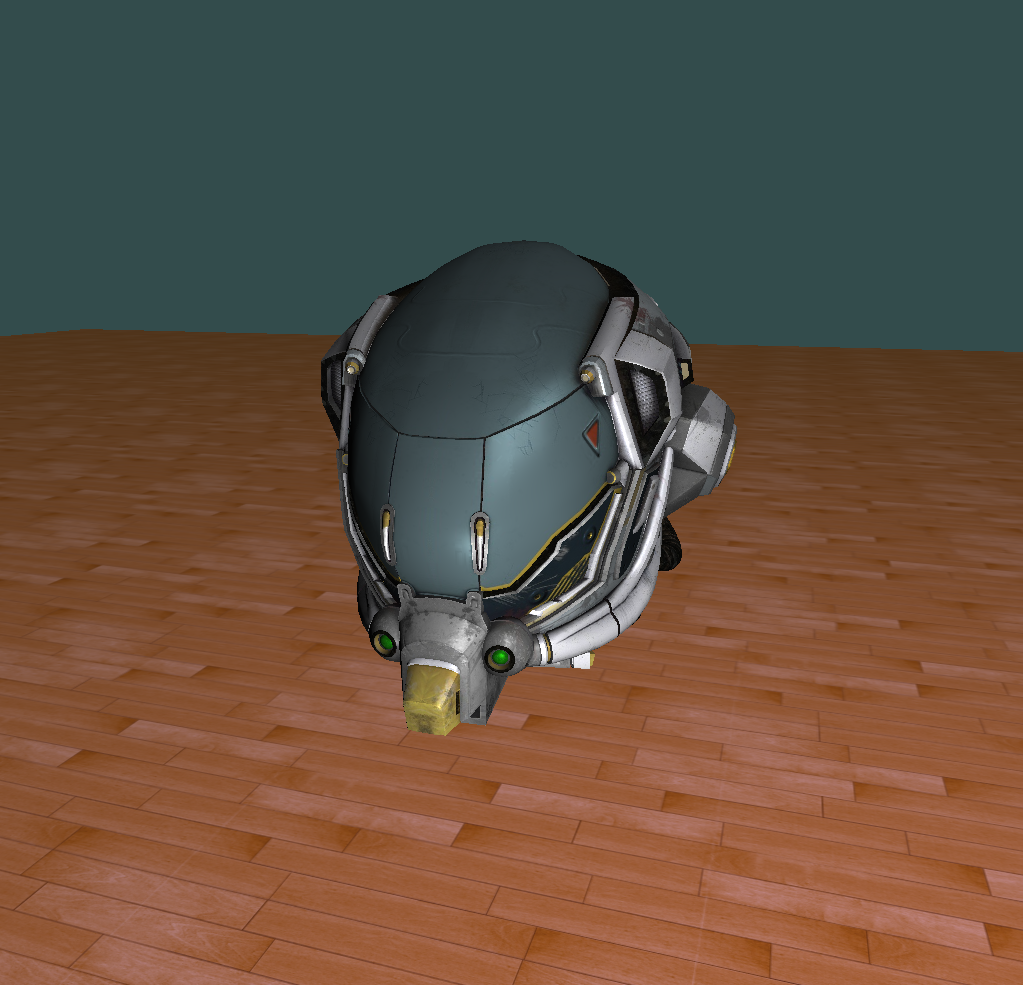
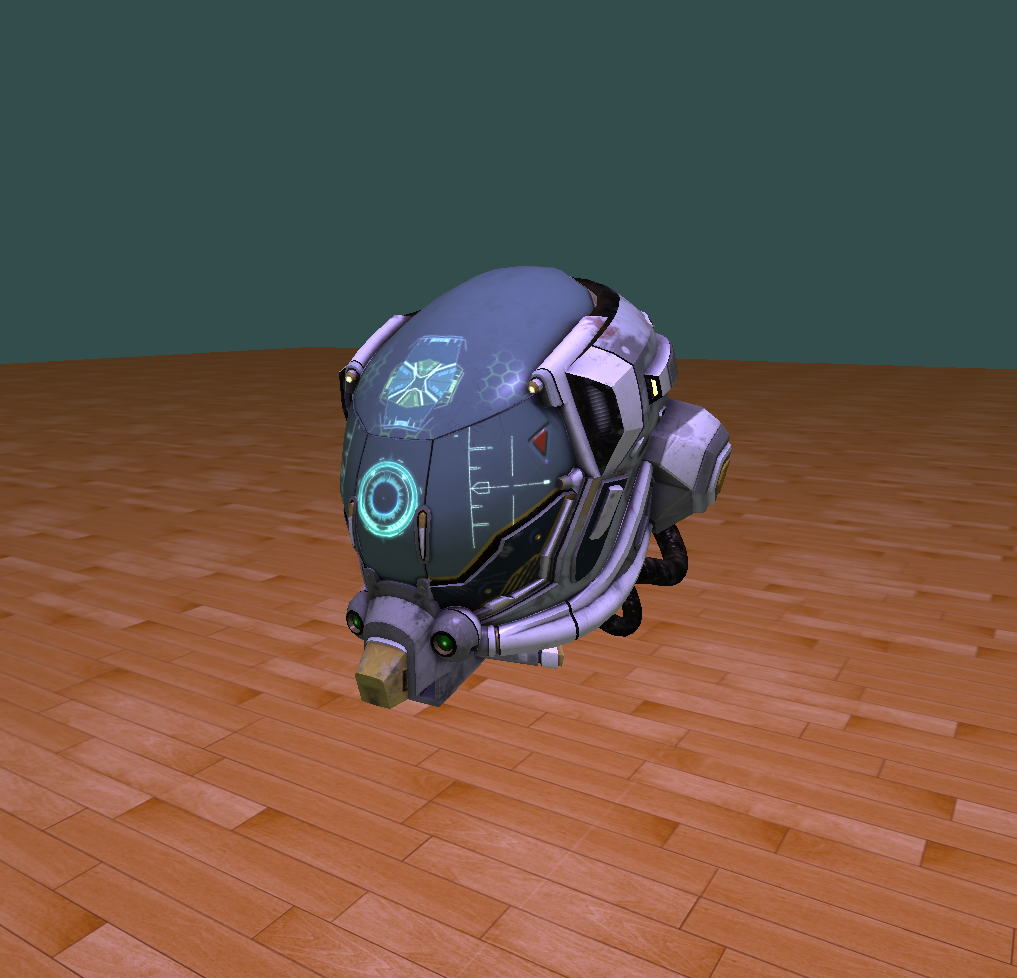
完善 BlinnPhong 光照着色处理

diff --git a/source/Render/Material.hpp b/source/Render/Material.hpp
@@ -42,6 +42,7 @@ enum class MaterialTexType
   EMISSIVE,
   AMBIENT_OCCLUSION,
   METAL_ROUGHNESS,
+  SPECULAR,
 
   CUBE,
   EQUIRECTANGULAR,
@@ -121,6 +122,7 @@ public:
             CASE_ENUM_STR(MaterialTexType::EMISSIVE);
             CASE_ENUM_STR(MaterialTexType::AMBIENT_OCCLUSION);
             CASE_ENUM_STR(MaterialTexType::METAL_ROUGHNESS);
+            CASE_ENUM_STR(MaterialTexType::SPECULAR);
             CASE_ENUM_STR(MaterialTexType::CUBE);
             CASE_ENUM_STR(MaterialTexType::EQUIRECTANGULAR);
             CASE_ENUM_STR(MaterialTexType::IBL_IRRADIANCE);
@@ -142,6 +144,7 @@ public:
             case MaterialTexType::EMISSIVE:           return "EMISSIVE_MAP";
             case MaterialTexType::AMBIENT_OCCLUSION:  return "AO_MAP";
             case MaterialTexType::METAL_ROUGHNESS:    return "METALROUGHNESS_MAP";
+            case MaterialTexType::SPECULAR:           return "SPECULAR_MAP";
             case MaterialTexType::CUBE:               return "CUBE_MAP";
             case MaterialTexType::EQUIRECTANGULAR:    return "EQUIRECTANGULAR_MAP";
             case MaterialTexType::IBL_IRRADIANCE:
@@ -162,6 +165,7 @@ public:
             case MaterialTexType::EMISSIVE:           return "u_emissiveMap";
             case MaterialTexType::AMBIENT_OCCLUSION:  return "u_aoMap";
             case MaterialTexType::METAL_ROUGHNESS:    return "u_metalRoughnessMap";
+            case MaterialTexType::SPECULAR:           return "u_specularMap";
             case MaterialTexType::CUBE:               return "u_cubeMap";
             case MaterialTexType::EQUIRECTANGULAR:    return "u_equirectangularMap";
             case MaterialTexType::IBL_IRRADIANCE:     return "u_irradianceMap";

diff --git a/source/Render/Renderer.hpp b/source/Render/Renderer.hpp
@@ -378,7 +378,7 @@ private:
 
         uniformScene.u_ambientColor = glm::vec3(0.4f, 0.4f, 0.4f);
         uniformScene.u_cameraPosition = m_cameraCurrent->position();
-        uniformScene.u_pointLightPosition = glm::vec3(2.0f, 3.0f, 2.0f);
+        uniformScene.u_pointLightPosition = glm::vec3(1.0f, 3.0f, 1.0f);
         uniformScene.u_pointLightColor = glm::vec3(0.6f, 0.5f, 0.9f);
 
         m_uniformBlockScene->setData(&uniformScene, sizeof(uniformScene));
@@ -510,7 +510,6 @@ private:
     // shadow map
     std::shared_ptr<Framebuffer> m_fboShadow;
     std::shared_ptr<Texture> m_texDepthShadow;
-    std::shared_ptr<Texture> m_;
 };
 
 END_NAMESPACE(GLBase)

diff --git a/source/main.cpp b/source/main.cpp
@@ -137,7 +137,7 @@ int main()
     GLBase::ModelLoader modelLoader;
     modelLoader.loadFloor(modelLoader.getScene().floor);
     modelLoader.loadCube(modelLoader.getScene().cube, glm::translate(glm::mat4(1.0f), glm::vec3(0.0f, 1.0f, 0.0f)));
-    modelLoader.loadModel("../assets/DamagedHelmet/DamagedHelmet.gltf", glm::translate(glm::mat4(1.0f), glm::vec3(0.0f, 3.1f, 0.0f)));
+    modelLoader.loadModel("../assets/DamagedHelmet/DamagedHelmet.gltf", glm::translate(glm::mat4(1.0f), glm::vec3(0.0f, 3.0f, 0.0f)));
 
     GLBase::Renderer renderer;
     renderer.create(g_camera, modelLoader.getScene());

diff --git a/source/Model/ModelLoader.hpp b/source/Model/ModelLoader.hpp
@@ -371,6 +371,9 @@ public:
 			case aiTextureType_LIGHTMAP:
 				texType = MaterialTexType::AMBIENT_OCCLUSION;
 				break;
+            case aiTextureType_SPECULAR:
+                texType = MaterialTexType::SPECULAR;
+                break;
 			case aiTextureType_UNKNOWN:
 				texType = MaterialTexType::METAL_ROUGHNESS;
 				break;
